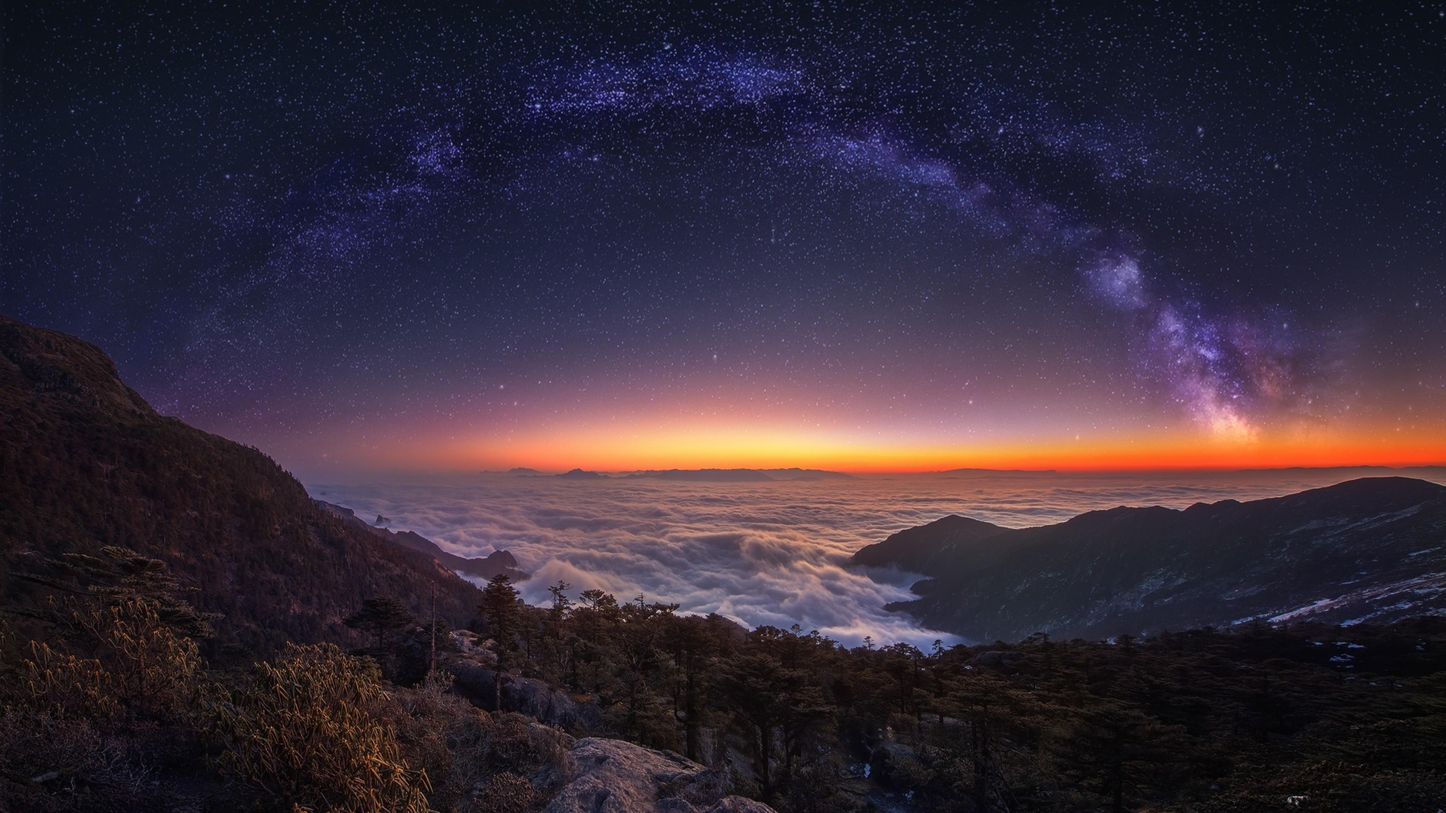
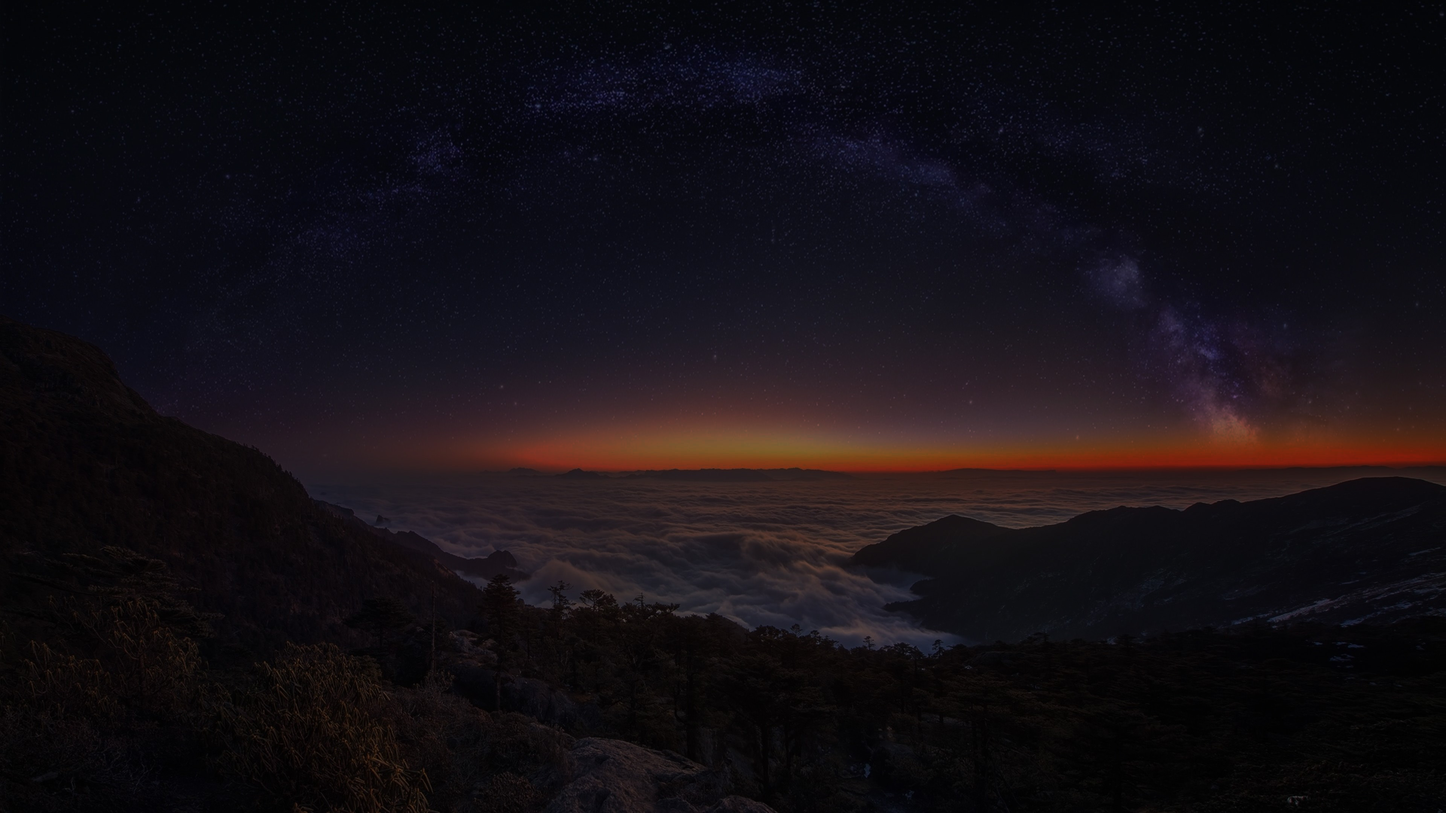
Fix main background not showing

diff --git a/css/style.css b/css/style.css
@@ -109,8 +109,7 @@
   display: flex;
   -ms-flex-line-pack: center;
       align-content: center;
-  background: -webkit-gradient(linear, left top, left bottom, from(rgba(0, 0, 0, 0.5)), to(rgba(0, 0, 0, 0.5))), url("../../img/bg-img.jpg");
-  background: linear-gradient(rgba(0, 0, 0, 0.5), rgba(0, 0, 0, 0.5)), url("../../img/bg-img.jpg");
+  background-image: url("../../img/bg-img.jpg");
   background-repeat: no-repeat;
   background-size: 100% 100%;
 }

diff --git a/css/_index.scss b/css/_index.scss
@@ -67,7 +67,7 @@
     display: flex;
     align-content: center;
     
-    background: linear-gradient(rgba(0, 0, 0, 0.5),rgba(0, 0, 0, 0.5)), url("../../img/bg-img.jpg");
+    background-image: url("../../img/bg-img.jpg");
     background-repeat: no-repeat;
     background-size: 100% 100%;
     &__image{
